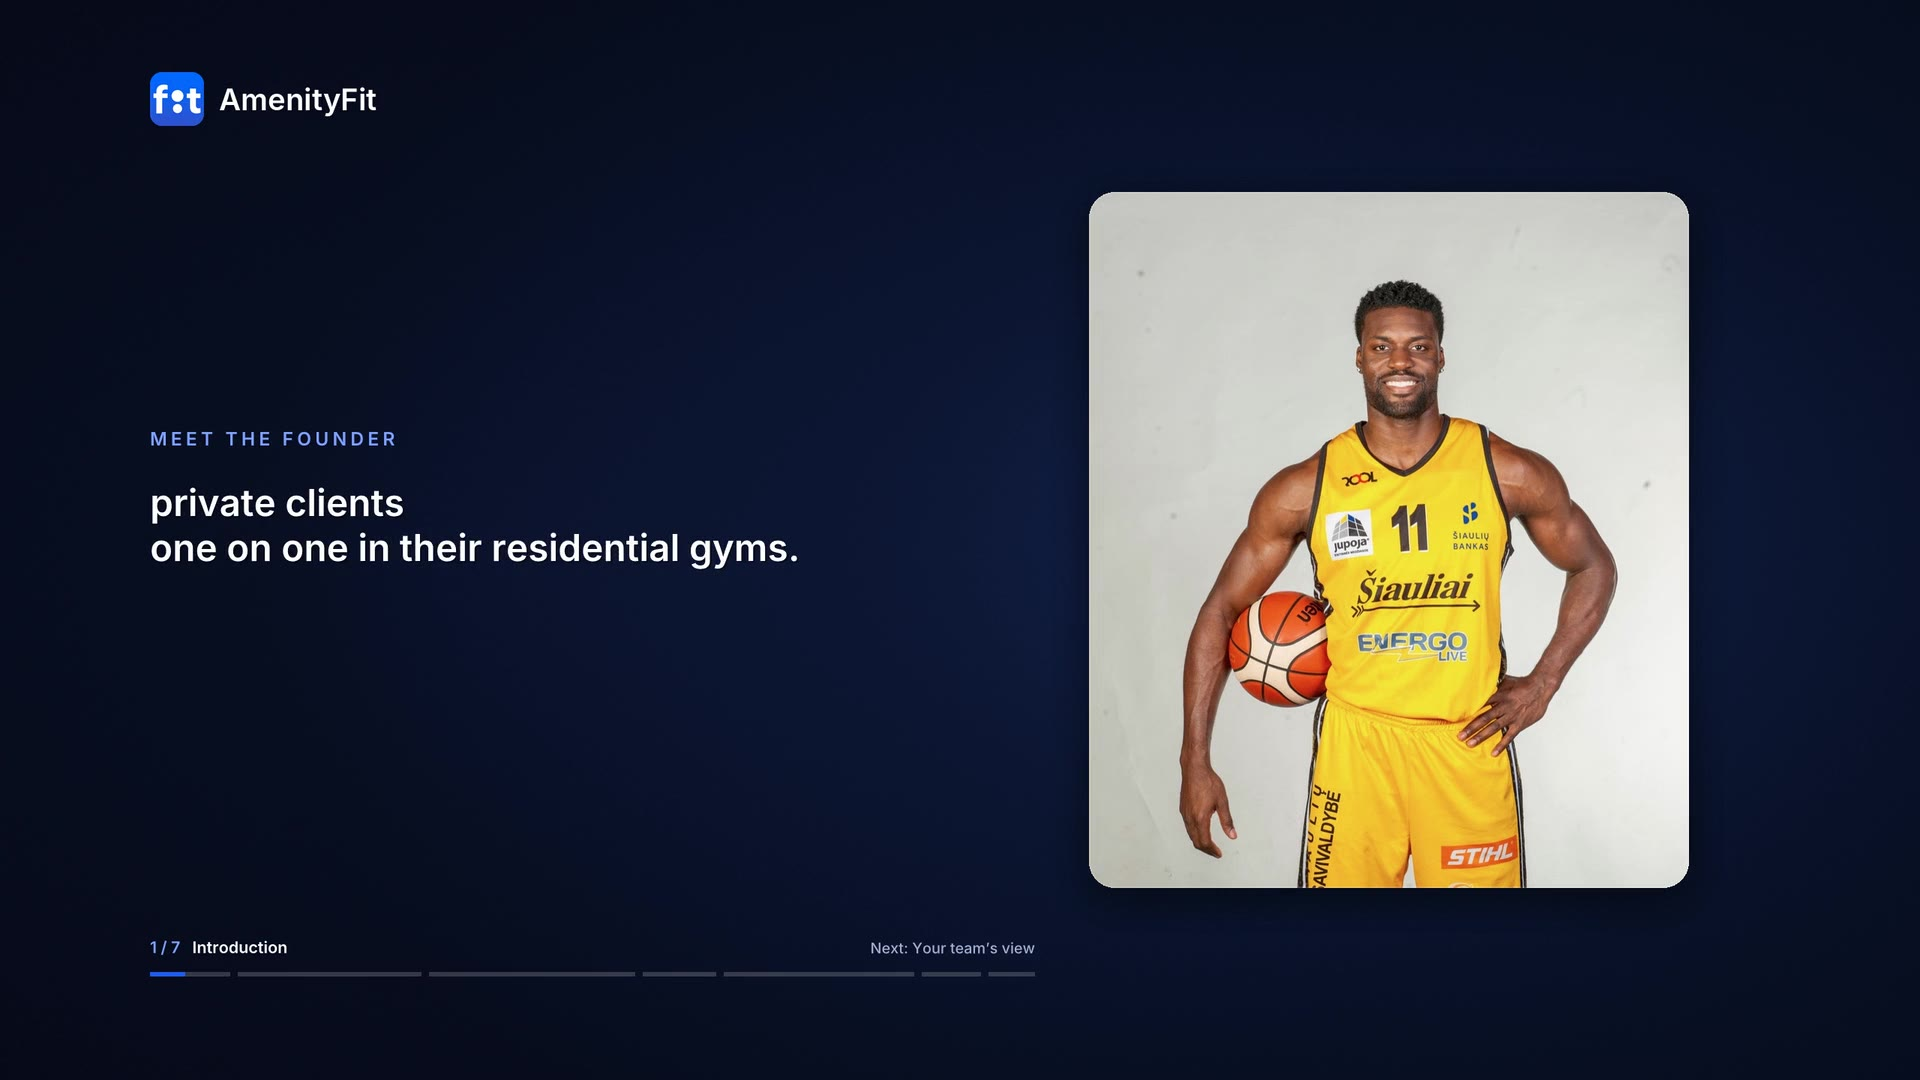
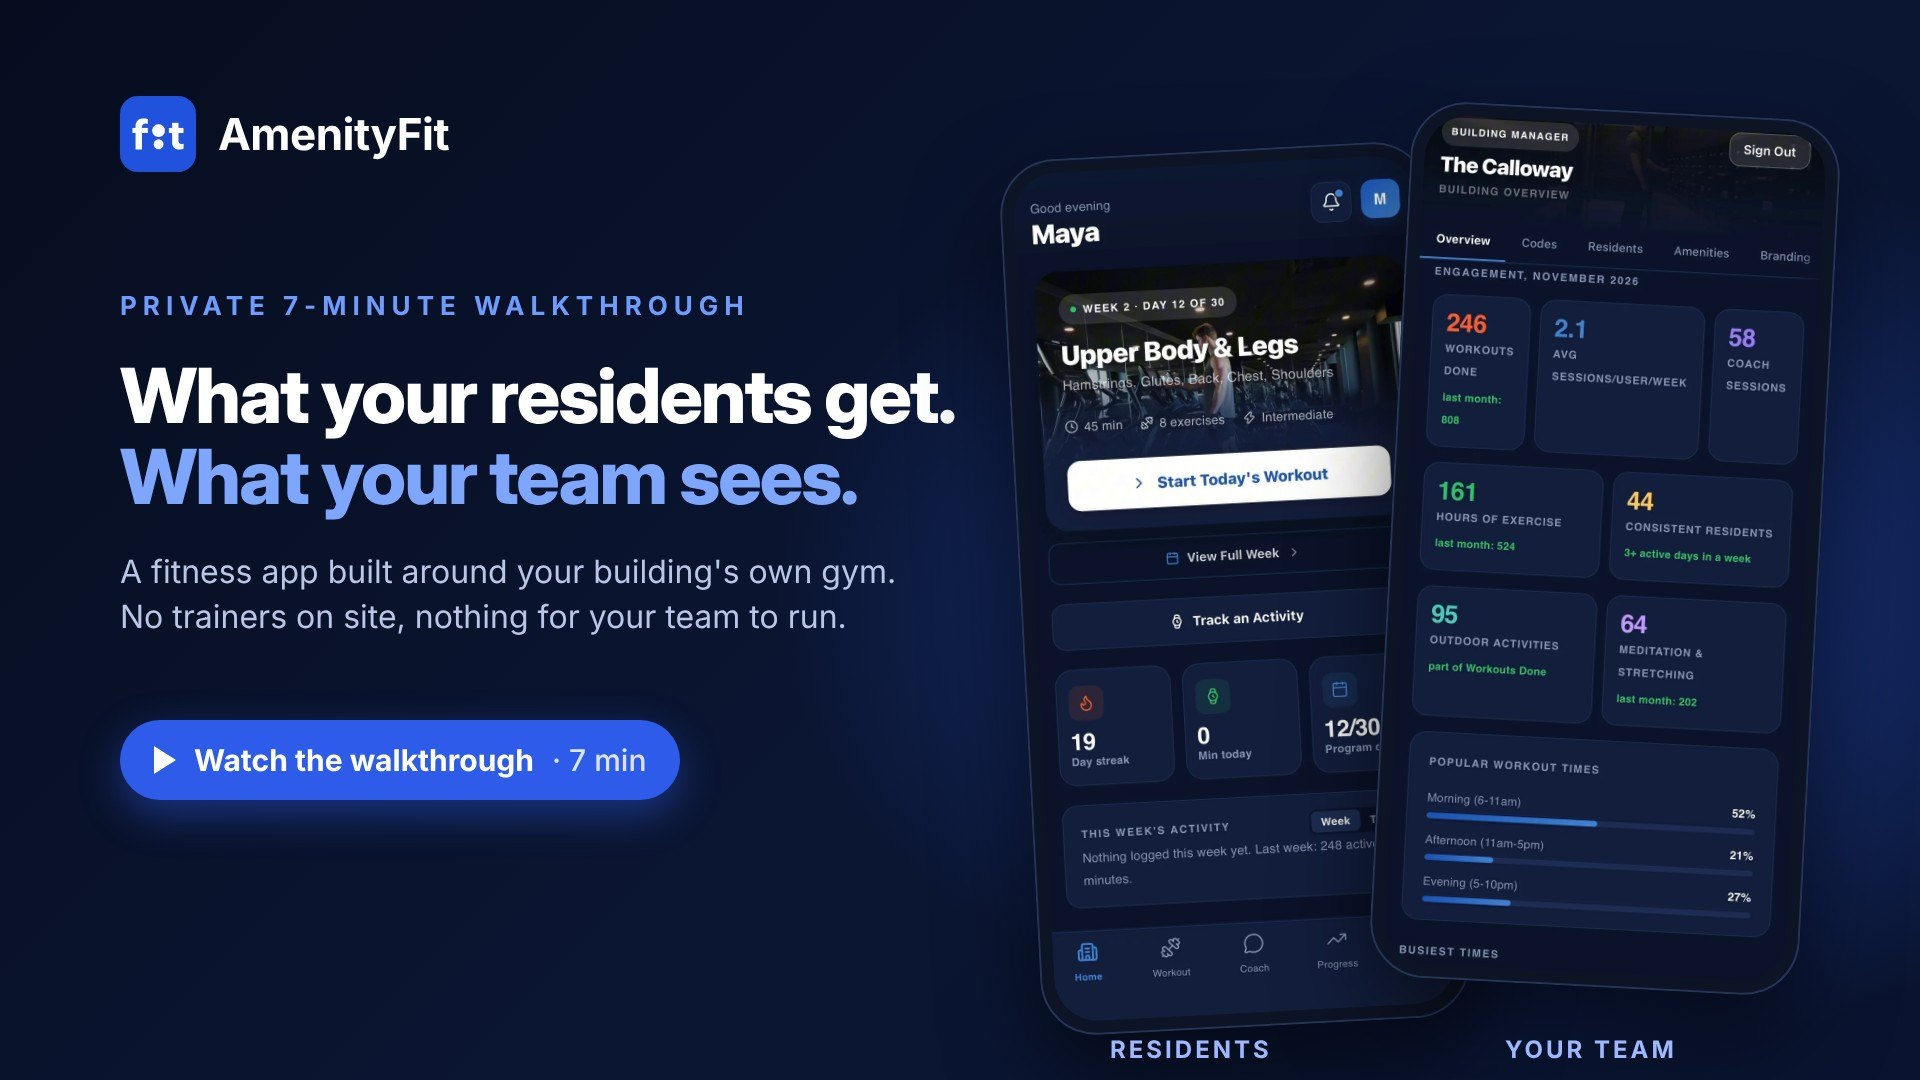
Demo: product-first poster (residents + team screens)
Claude-Session: https://claude.ai/code/session_01KJo3PWHGKDTLdFLdBNWbr3

diff --git a/demo/index.html b/demo/index.html
@@ -86,7 +86,7 @@
     <p class="sub">A 7 minute walkthrough of the real app: what your team sees each month, what every resident gets, and how the Coach works. Use the chapters to jump to what matters most to you.</p>
 
     <div class="player">
-      <video id="v" controls playsinline preload="metadata" poster="poster.jpg" controlslist="nodownload noplaybackrate" disablepictureinpicture></video>
+      <video id="v" controls playsinline preload="metadata" poster="poster.jpg?v=2" controlslist="nodownload noplaybackrate" disablepictureinpicture></video>
     </div>
     <div class="chapters" id="chapters"></div>
 
